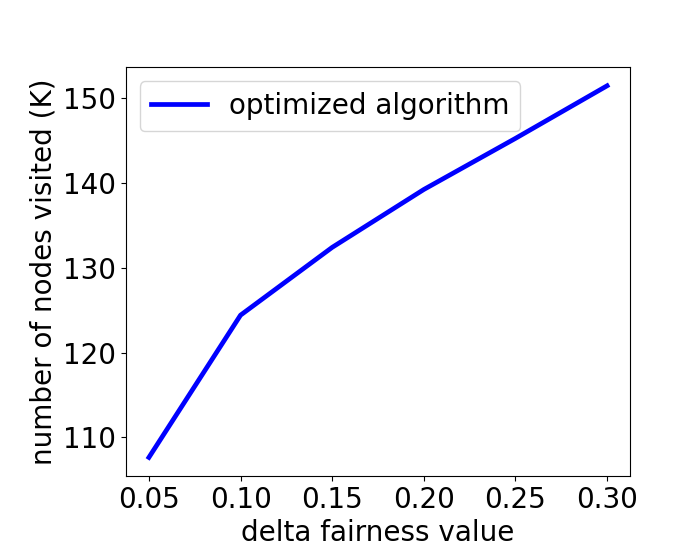
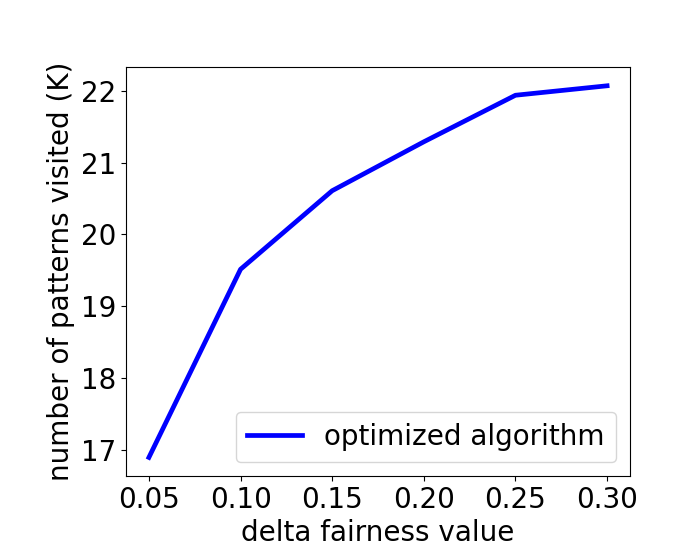
general, creditcard, tha

diff --git a/Coding/Experiments/General_FP/CreditcardData/Tha_1_20210629.py b/Coding/Experiments/General_FP/CreditcardData/Tha_1_20210629.py
@@ -40,8 +40,7 @@ def thousands_formatter(x, pos):
     return int(x/1000)
 
 
-selected_attributes = ['limit_bal', 'sex', 'education', 'marriage', 'age', 'pay_0', 'pay_2',
-                       'pay_3', 'pay_4']
+selected_attributes = ['limit_bal', 'sex', 'education', 'marriage', 'age', 'pay_0', 'pay_2']
 
 diff_acc = [0.05, 0.1, 0.15, 0.2, 0.25, 0.3]
 
@@ -146,7 +145,7 @@ fig, ax = plt.subplots()
 plt.plot(diff_acc, num_calculations, label="optimized algorithm", color='blue', linewidth = 3.4)
 
 plt.xlabel('delta fairness value')
-plt.ylabel('number of nodes visited (K)')
+plt.ylabel('number of patterns visited (K)')
 ax.yaxis.set_major_formatter(FuncFormatter(thousands_formatter))
 
 

diff --git a/Coding/Experiments/General_FP/CreditcardData/Tha_0_20210523.py b/Coding/Experiments/General_FP/CreditcardData/Tha_0_20210523.py
@@ -123,7 +123,7 @@ for n in range(len(diff_acc)):
 plt.plot(diff_acc, execution_time, label="optimized algorithm", color='blue', linewidth = 3.4)
 
 
-plt.xlabel('threshold of accuracy')
+plt.xlabel('delta fairness value')
 plt.ylabel('execution time (s)')
 plt.xticks(diff_acc)
 
@@ -137,7 +137,7 @@ fig, ax = plt.subplots()
 plt.plot(diff_acc, num_calculations, label="optimized algorithm", color='blue', linewidth = 3.4)
 
 plt.xlabel('delta fairness value')
-plt.ylabel('number of nodes visited (K)')
+plt.ylabel('number of patterns visited (K)')
 ax.yaxis.set_major_formatter(FuncFormatter(thousands_formatter))
 
 
